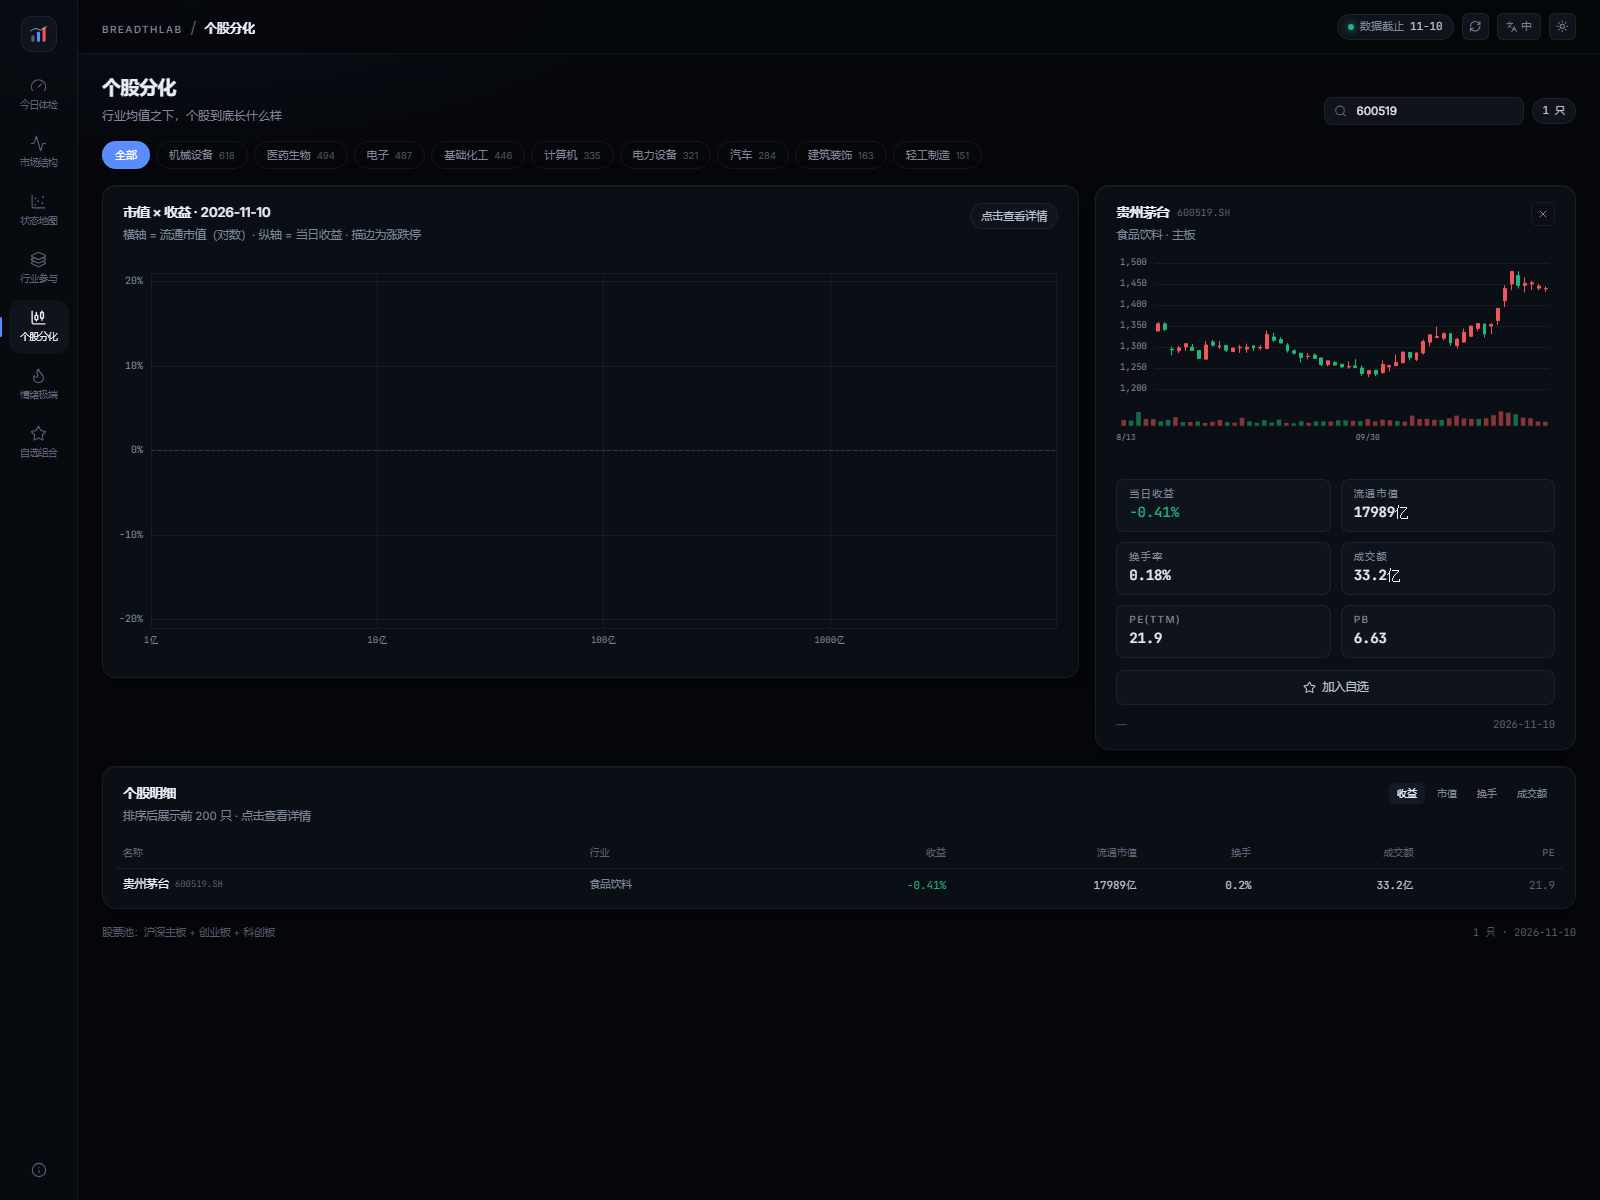
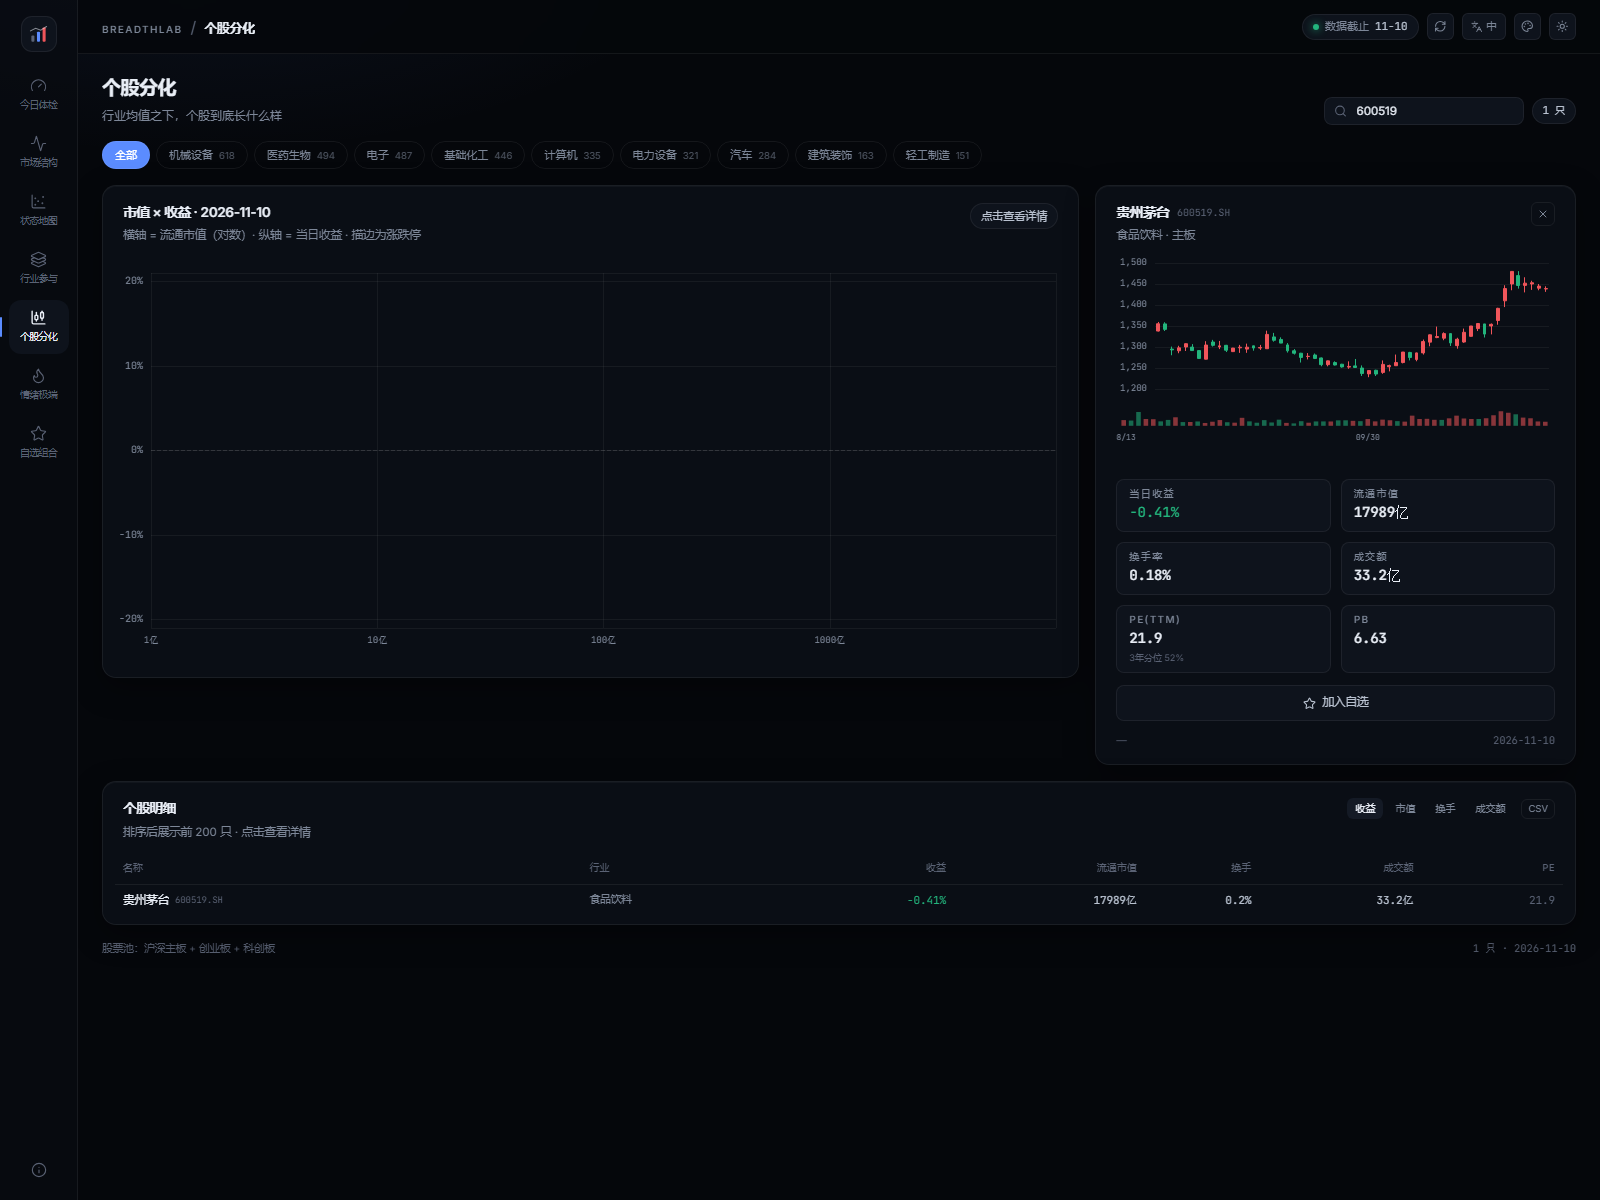
feat(stocks): 3-year PE percentile (static for 62 codes, Flask for all)

diff --git a/frontend/src/pages/Stocks.tsx b/frontend/src/pages/Stocks.tsx
@@ -93,6 +93,12 @@ export default function Stocks() {
     enabled: !!sel,
   });
 
+  const { data: valuation } = useQuery({
+    queryKey: ["valuation", sel?.ts_code],
+    queryFn: () => api.valuation(sel!.ts_code),
+    enabled: !!sel,
+  });
+
   const all = stocks ?? [];
   const filtered = useMemo(() => {
     const q = query.trim().toLowerCase();
@@ -344,12 +350,13 @@ export default function Stocks() {
                   { k: lang === "en" ? "Float cap" : "流通市值", v: `${(sel.circ_mv / 1e4).toFixed(0)}亿` },
                   { k: lang === "en" ? "Turnover" : "换手率", v: `${(sel.turnover_rate || 0).toFixed(2)}%` },
                   { k: lang === "en" ? "Amount" : "成交额", v: money(sel.amount) },
-                  { k: "PE(TTM)", v: sel.pe_ttm ? sel.pe_ttm.toFixed(1) : "—" },
+                  { k: "PE(TTM)", v: sel.pe_ttm ? sel.pe_ttm.toFixed(1) : "—", sub: valuation ? `${lang === "en" ? "3y pct" : "3年分位"} ${valuation.pct}%` : undefined },
                   { k: "PB", v: sel.pb ? sel.pb.toFixed(2) : "—" },
                 ].map((x) => (
                   <div key={x.k} className="rounded-lg border border-[var(--border)] bg-[var(--panel-2)] px-3 py-2">
                     <MicroLabel>{x.k}</MicroLabel>
                     <div className={`mono mt-1 text-[14px] font-medium ${x.tone || ""}`}>{x.v}</div>
+                    {x.sub ? <div className="mt-0.5 text-[9px] text-[var(--faint)]">{x.sub}</div> : null}
                   </div>
                 ))}
               </div>

diff --git a/frontend/src/lib/api.ts b/frontend/src/lib/api.ts
@@ -173,6 +173,12 @@ export interface UpdateLog {
   warnings: number;
 }
 
+export interface PePercentile {
+  pe: number;
+  pct: number;
+  n: number;
+}
+
 export interface Reconcile {
   generated_at?: string;
   stocks?: number;
@@ -235,6 +241,7 @@ export interface StaticPayload {
   stocks: StockRow[];
   watch_pool: StockRow[];
   stock_series?: Record<string, [string, number, number, number, number, number][]>;
+  pe_percentile?: Record<string, PePercentile>;
   limit_quality?: LimitQuality[];
   updates?: UpdateLog[];
   reconcile?: Reconcile;
@@ -380,6 +387,11 @@ export const api = {
       return ok(rows.slice(0, limit));
     }
     return get<StockRow[]>("/api/stocks", { date, sector, limit });
+  },
+
+  valuation: (code: string) => {
+    if (S) return ok(S.pe_percentile?.[code] ?? null);
+    return get<PePercentile | null>(`/api/valuation/${code}`);
   },
 
   stockSeries: (code: string, start?: string, end?: string) => {

diff --git a/pipeline/export_static.py b/pipeline/export_static.py
@@ -235,6 +235,28 @@ def build_payload(con) -> dict:
         except Exception:
             reconcile = {}
 
+    pe_rows = rows(
+        f"""
+        SELECT ts_code, pe_ttm
+        FROM feat_stock
+        WHERE ts_code IN ({ph})
+          AND trade_date >= (SELECT max(trade_date) - INTERVAL 3 YEAR FROM feat_stock)
+          AND pe_ttm > 0
+        ORDER BY ts_code, trade_date
+        """,
+        series_codes,
+    )
+    pe_hist: dict[str, list] = {}
+    for r in pe_rows:
+        pe_hist.setdefault(r["ts_code"], []).append(r["pe_ttm"])
+    pe_percentile = {}
+    for code, vals in pe_hist.items():
+        last = vals[-1]
+        pe_percentile[code] = {
+            "pe": round(last, 2),
+            "pct": round(100 * sum(v <= last for v in vals) / len(vals)),
+            "n": len(vals),
+        }
     payload = {
         "meta": meta,
         "quality": quality,
@@ -251,6 +273,7 @@ def build_payload(con) -> dict:
         "stocks": stocks,
         "watch_pool": watch_pool,
         "stock_series": stock_series,
+        "pe_percentile": pe_percentile,
     }
     return _round(payload)
 

diff --git a/backend/main.py b/backend/main.py
@@ -397,6 +397,28 @@ def reconcile():
     )
 
 
+@app.get("/api/valuation/<code>")
+def valuation(code: str):
+    data = rows(
+        """
+        SELECT pe_ttm
+        FROM feat_stock
+        WHERE ts_code = ?
+          AND trade_date >= (SELECT max(trade_date) - INTERVAL 3 YEAR FROM feat_stock)
+          AND pe_ttm > 0
+        ORDER BY trade_date
+        """,
+        [code],
+    )
+    if not data:
+        return jsonify({})
+    vals = [r["pe_ttm"] for r in data]
+    last = vals[-1]
+    return jsonify(
+        {"pe": round(last, 2), "pct": round(100 * sum(v <= last for v in vals) / len(vals)), "n": len(vals)}
+    )
+
+
 @app.get("/api/quality")
 def quality():
     p = META / "quality" / "latest.json"

diff --git a/docs/status.md b/docs/status.md
@@ -32,7 +32,7 @@
 | P2 市场结构 | 双联图、集中度、分化度、区间统计 | 状态色带、刷选联动、指数/权重对照线不完整 |
 | P3 状态地图 | 散点、轨迹、四状态统计、相似日 | 状态平均持续、后续 5/20 日（描述性） |
 | P4 行业参与 | 气泡、热力图、行业强弱、排名迁移矩阵、轮动强度、q10–q90 分布条 | — |
-| P5 个股分化 | 市值×收益散点、分布、明细表、详情卡、K 线 | 估值分位、行业内排名百分位 |
+| P5 个股分化 | 市值×收益散点、分布、明细表、详情卡、K 线、3 年 PE 分位 | 行业内排名百分位 |
 | P6 情绪极端 | 涨跌停、连板、新高新低、两融/资金流、封板质量 | 北向历史（口径断裂，已剔除） |
 | P7 自选组合 | 自选、股数/成本/盈亏/权重、CSV 导入导出 | Brinson（已定暂缓） |
 | P8 方法与数据 | 血缘、口径、状态、质量门禁、更新日志、对账结果 | GitHub 链接 |
